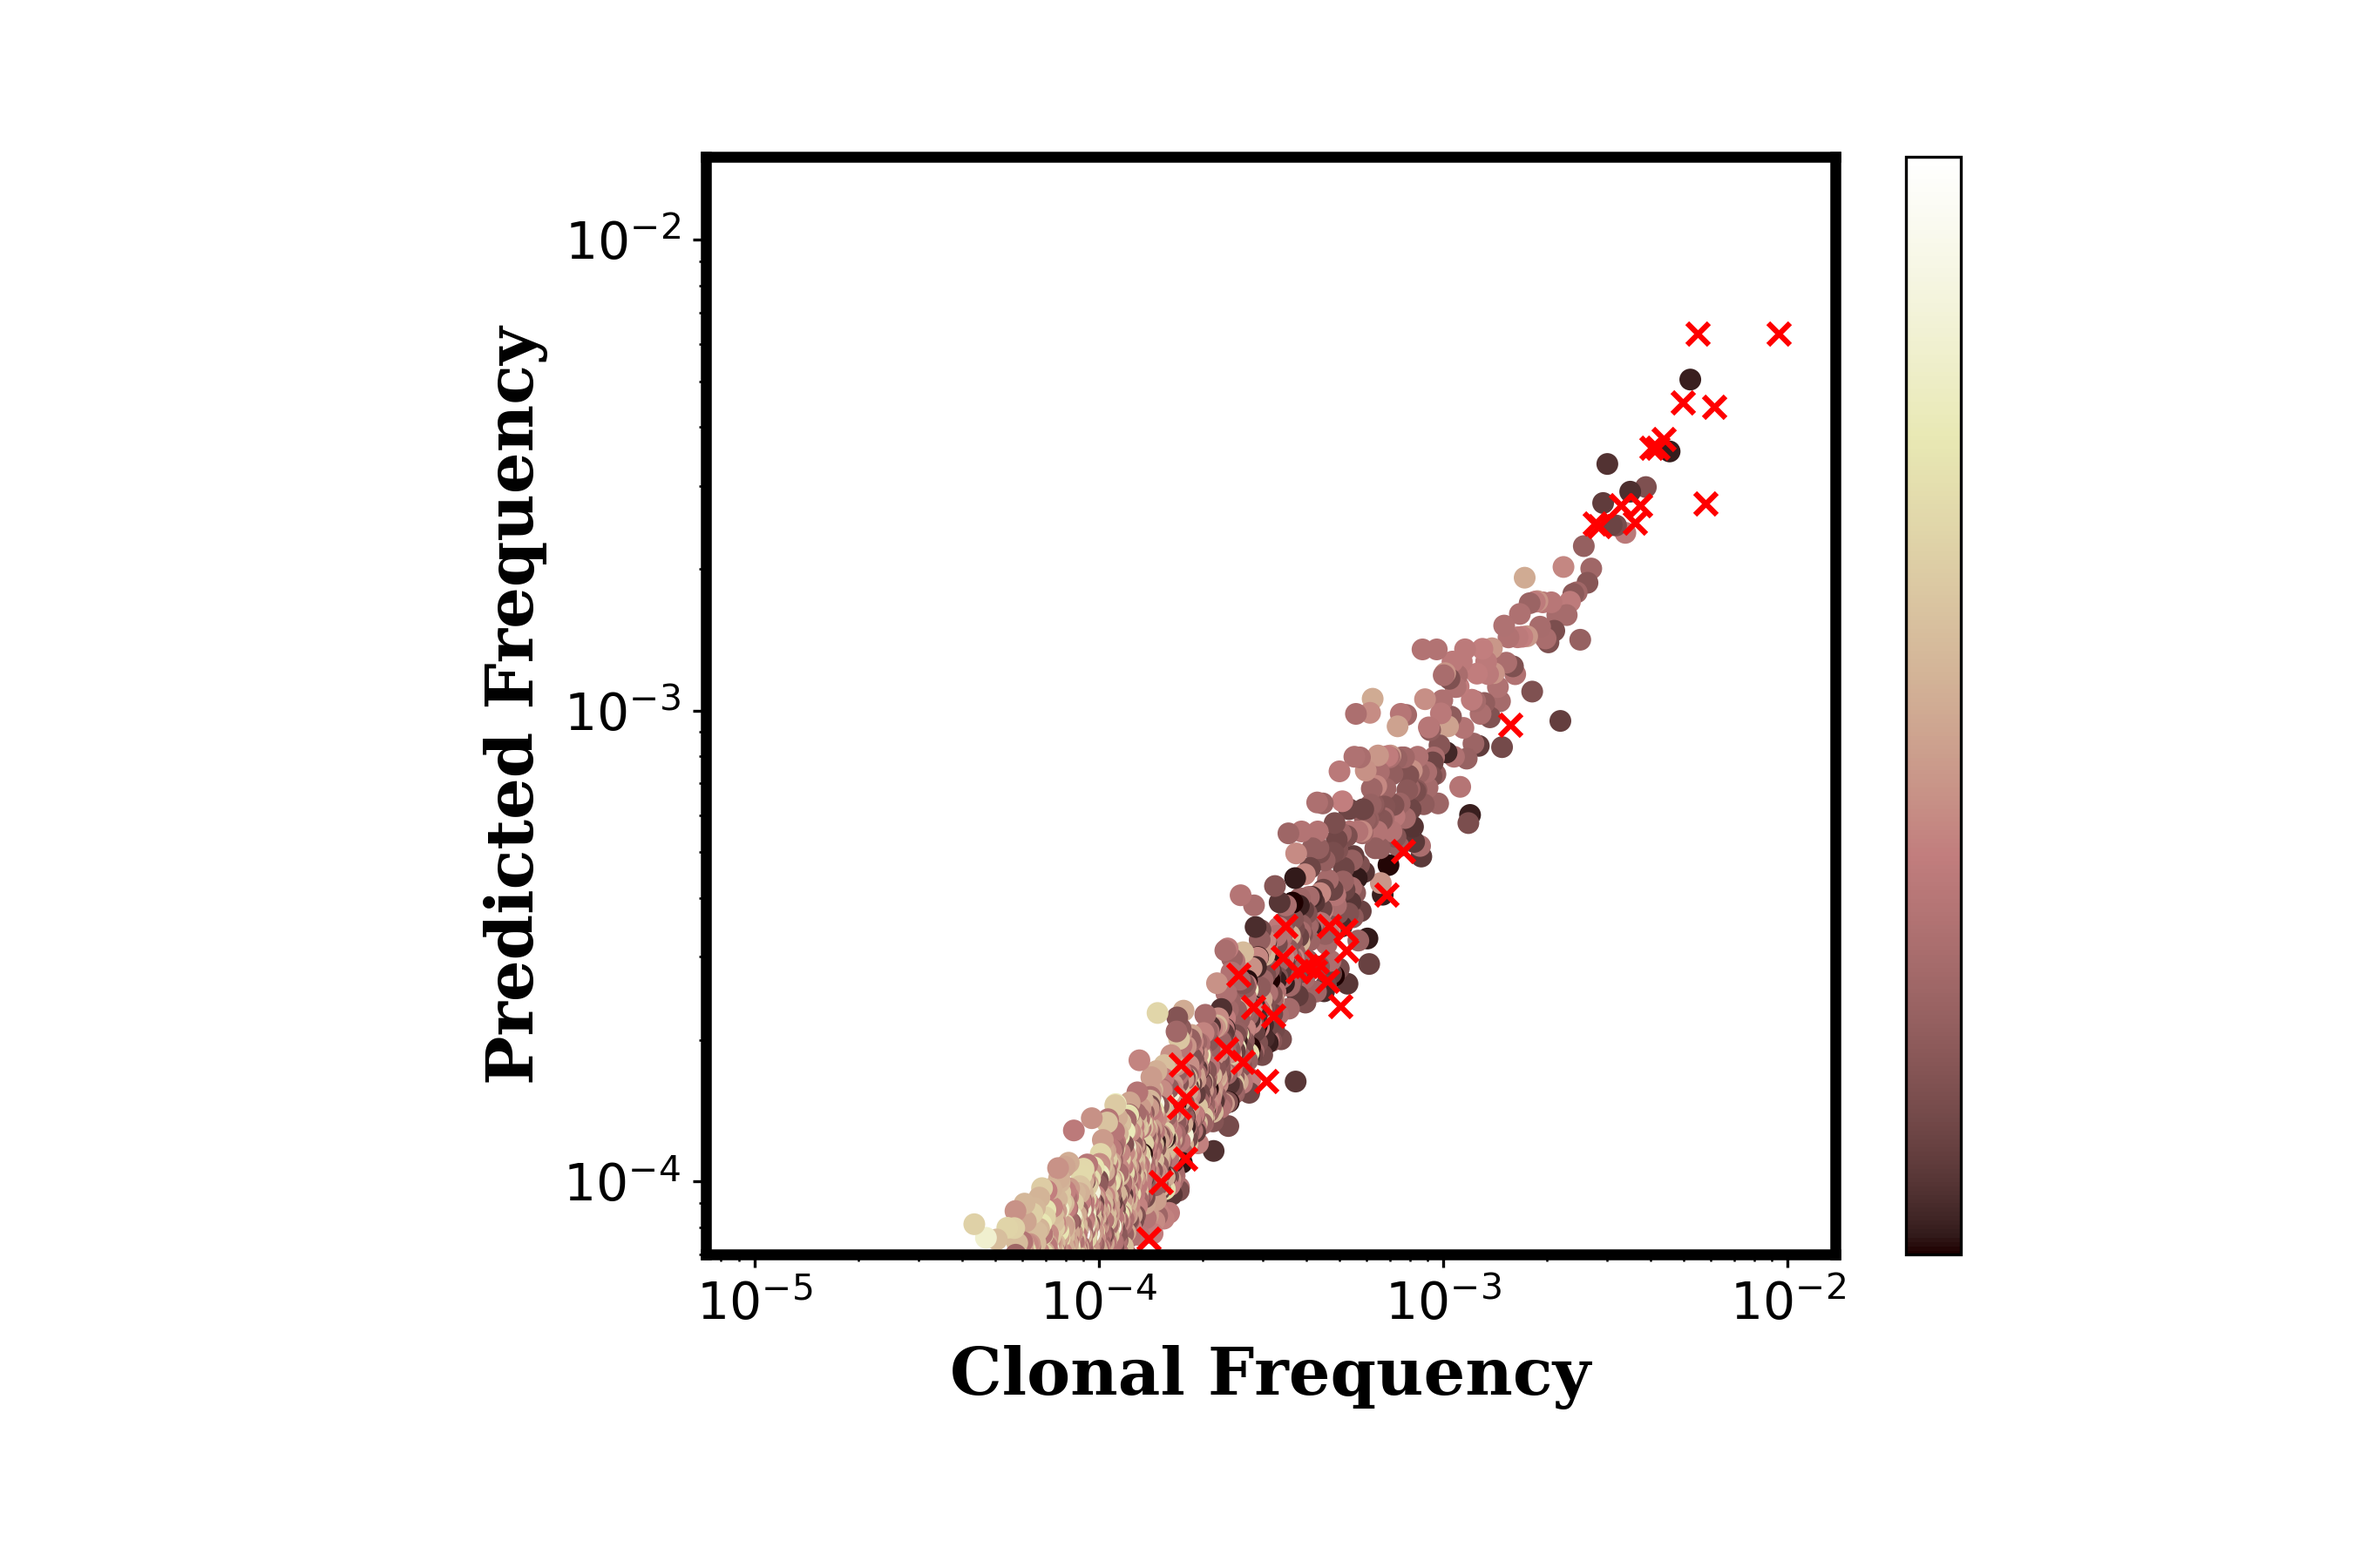
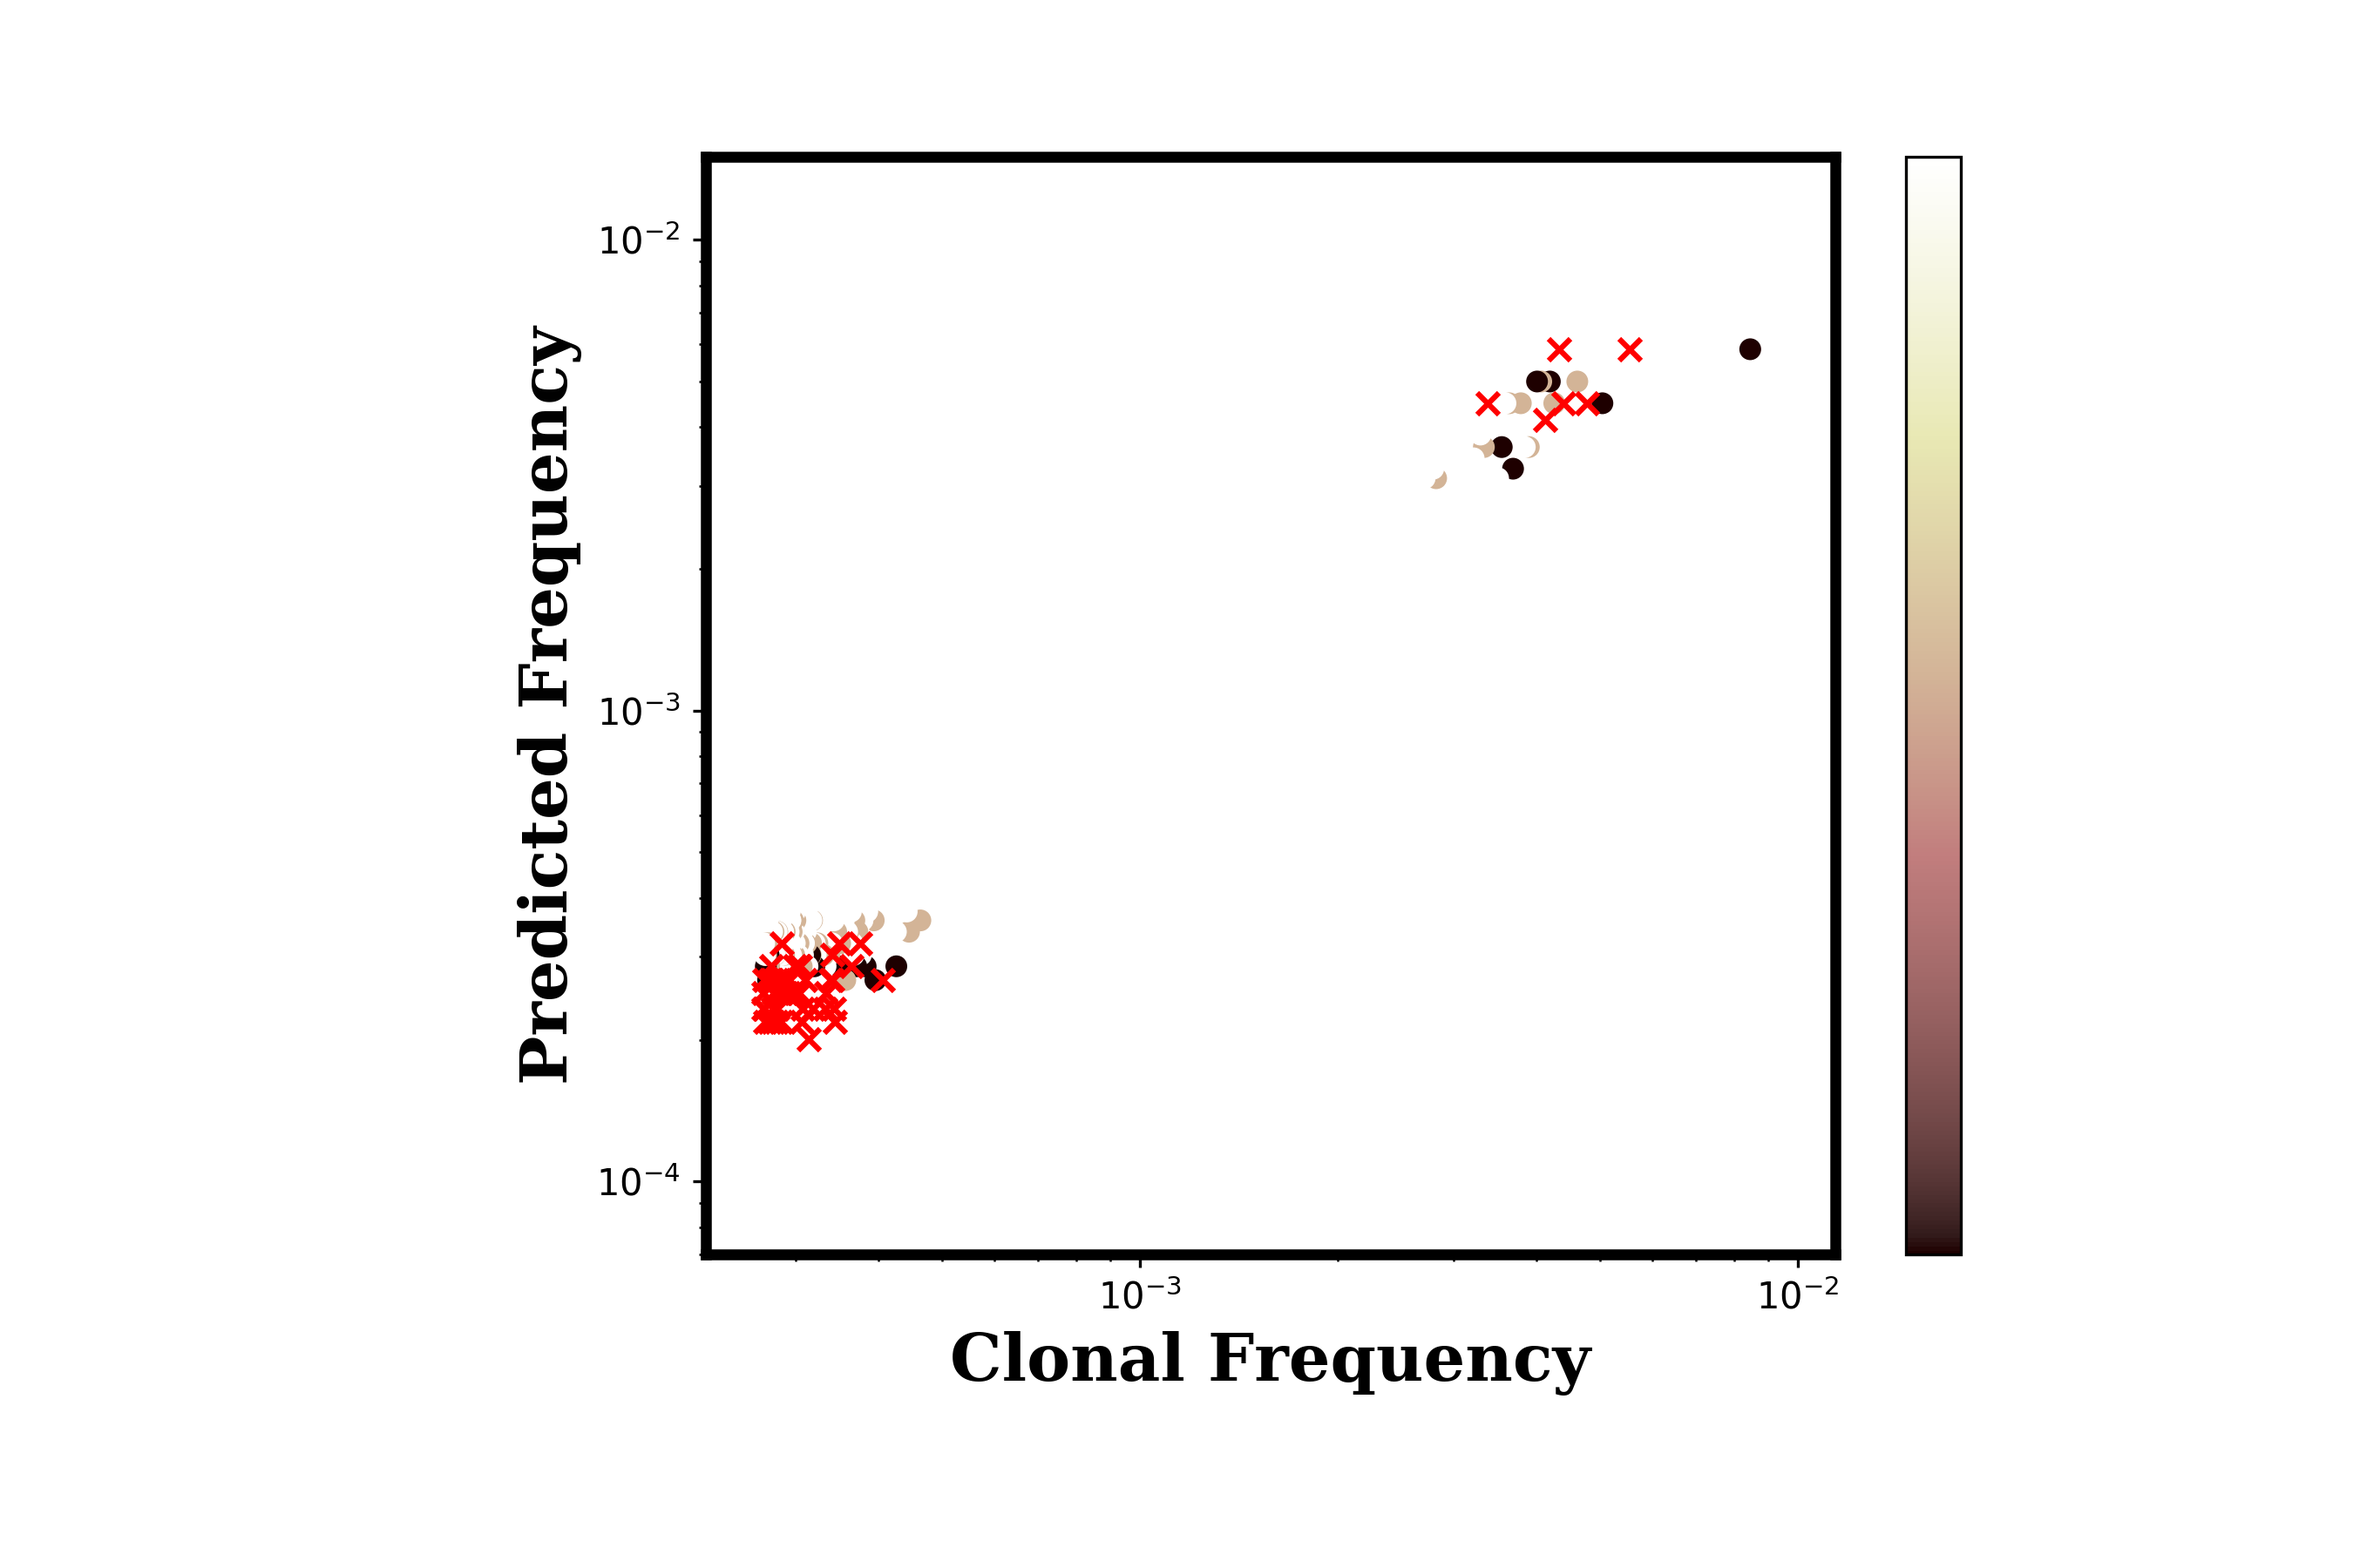
minor fig1 changes

diff --git a/figures/fig4.py b/figures/fig4.py
@@ -79,8 +79,8 @@ def main(*args,**kwargs):
     setBoxColors(bp)
  
     axes[0].set_xticks((1.5,3.5))
-    axes[0].set_xticklabels(('N = 100','N = 1000'),fontsize=fs)
-    axes[0].set_xlabel('Cells/well',fontsize=fs)
+    axes[0].set_xticklabels(('100','1000'),fontsize=fs)
+    axes[0].set_xlabel('Cells/well (#)',fontsize=fs)
 
     axes[0].set_ylim((0,1000))
     axes[0].set_yticks((0,250,500,750,1000))
@@ -120,14 +120,14 @@ def setBoxColors(bp):
         ##setp(bp['fliers'][1], color='green')
         setp(bp['medians'][2*i+0], color='green')
 
-        setp(bp['boxes'][2*i+1], color='red')
-        setp(bp['caps'][4*i+2], color='red')
-        setp(bp['caps'][4*i+3], color='red')
-        setp(bp['whiskers'][4*i+2], color='red')
-        setp(bp['whiskers'][4*i+3], color='red')
-        #setp(bp['fliers'][i+1], color='red')
-        #setp(bp['fliers'][3], color='red')
-        setp(bp['medians'][2*i+1], color='red')
+        setp(bp['boxes'][2*i+1], color='#FFD870')
+        setp(bp['caps'][4*i+2], color='#FFD870')
+        setp(bp['caps'][4*i+3], color='#FFD870')
+        setp(bp['whiskers'][4*i+2], color='#FFD870')
+        setp(bp['whiskers'][4*i+3], color='#FFD870')
+        #setp(bp['fliers'][i+1], color='#FFD870')
+        #setp(bp['fliers'][3], color='#FFD870')
+        setp(bp['medians'][2*i+1], color='#FFD870')
 
 if __name__ == "__main__":
     main()

diff --git a/main.py b/main.py
@@ -127,24 +127,25 @@ if __name__ == "__main__":
                 'visual':True
                 }
         '''
+
         options = {
                 # experimental design
                 'num_cells':1000,
-                'num_wells':(42,54,),
-                'analysis':('madhype',),
+                'num_wells':(96,),
+                'analysis':('madhype','alphabetr'),
                 # madhype parameters
-                'threshold':0.5, # minimum ratio accepted by match_probability
+                'threshold':0.1, # minimum ratio accepted by match_probability
                 # alphabetr parameters
-                'pair_threshold':0.0001,
+                'pair_threshold':0.00001,
                 'iters':10,
                 # simulation parameters
                 'cell_freq_max':0.01,
-                'cpw':(25,1758,),
-                'seed':1,
+                'cpw':(1000,),
+                'seed':2,
                 # visual cues
                 'silent':False,
-                'visual':True,
-                'visual_block':True,
+                'visual':False,
+                'visual_block':False,
                 'compare':True
                 }
 

diff --git a/figures/fig1.py b/figures/fig1.py
@@ -11,7 +11,7 @@ def main(*args,**kwargs):
     """ Makes diagram figures """
     rows,columns = 8,12
     cpw = 10
-    colors = ['b','g','r','c','m','y','b']
+    colors = [(a,a,a) for a in [0.1,0.2,0.3,0.4,0.5,0.6,0.7,0.8,0.9]]
 
     well_dev = 0.2
     cell_size = 100
@@ -19,10 +19,10 @@ def main(*args,**kwargs):
     well_edge_size = 5
     margin = (0.7,2)
 
-    w_i = 5
-    w_j = 7
-    w_ij = 23
-    w_o = 61
+    w_i = 5 
+    w_j = 7 
+    w_ij = 23 
+    w_o = 61 
 
     x = np.linspace(1,rows,rows)
     y = np.linspace(1,columns,columns)
@@ -50,10 +50,10 @@ def main(*args,**kwargs):
             np.random.shuffle(combos)
             print combos
 
-            w_i_indices = combos[:w_i+w_ij]
-            w_j_indices = combos[w_i:w_i+w_j+w_ij]
+            w_j_indices = combos[:w_i+w_ij]
+            w_i_indices = combos[w_i:w_i+w_j+w_ij]
 
-            sets = [(w_i_indices,'r',-0.1),(w_j_indices,'b',0.1)]
+            sets = [(w_i_indices,(0.3,0.3,0.3),-0.1),(w_j_indices,(0.6,0.6,0.6),0.1)]
 
             for w,c,shift in sets: 
                 for x,y in w:

diff --git a/post_processing.py b/post_processing.py
@@ -256,7 +256,7 @@ def compare_results(cresults,*args,**kwargs):
             'fdr_plot':0.01,
             'pos_color':'black',
             'mixed1_color':'green',
-            'mixed2_color':'red',
+            'mixed2_color':'#FFD870',
             'neg_color':'white',
             'analysis':('MAD-HYPE','ALPHABETR'),
             'legend':True,

diff --git a/make_diagrams.py b/make_diagrams.py
@@ -26,11 +26,11 @@ settings = {
         'visual':True
         }
 
-#fig1.main()
+fig1.main()
 #fig2.main()
 #fig4.main()
 
-fig1s.main()
+#fig1s.main()
 #fig2s.main()
 #fig3s.main()
 
